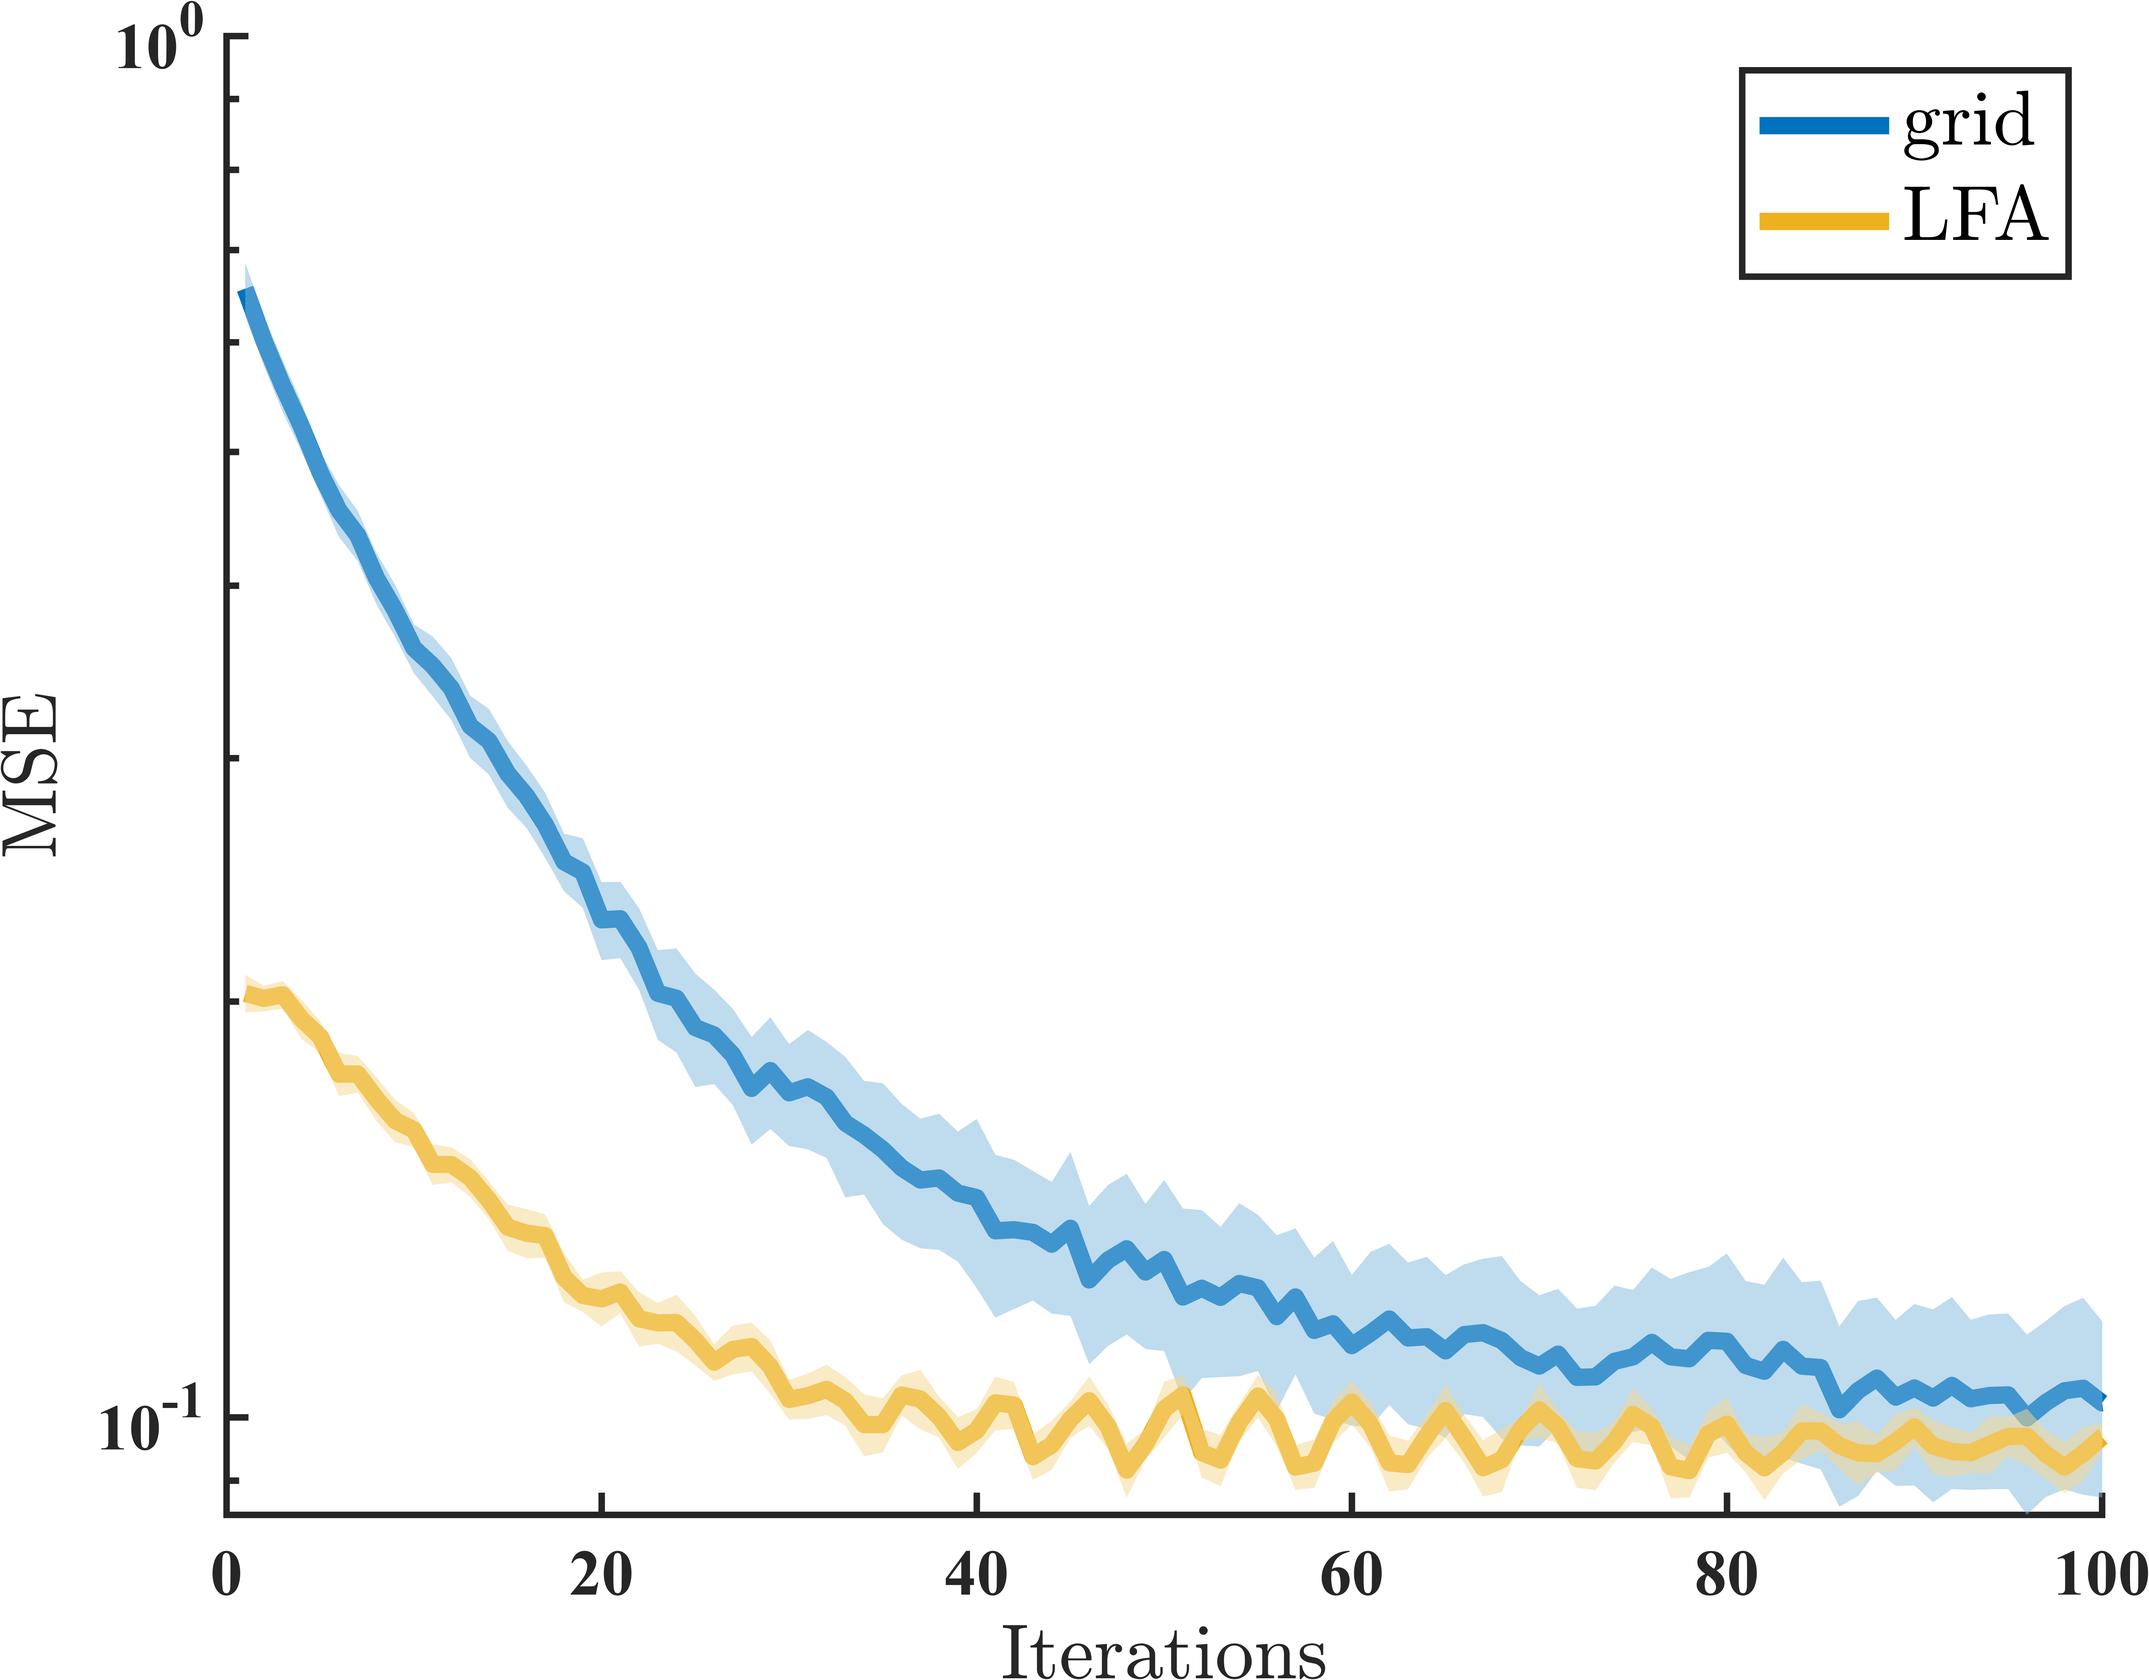
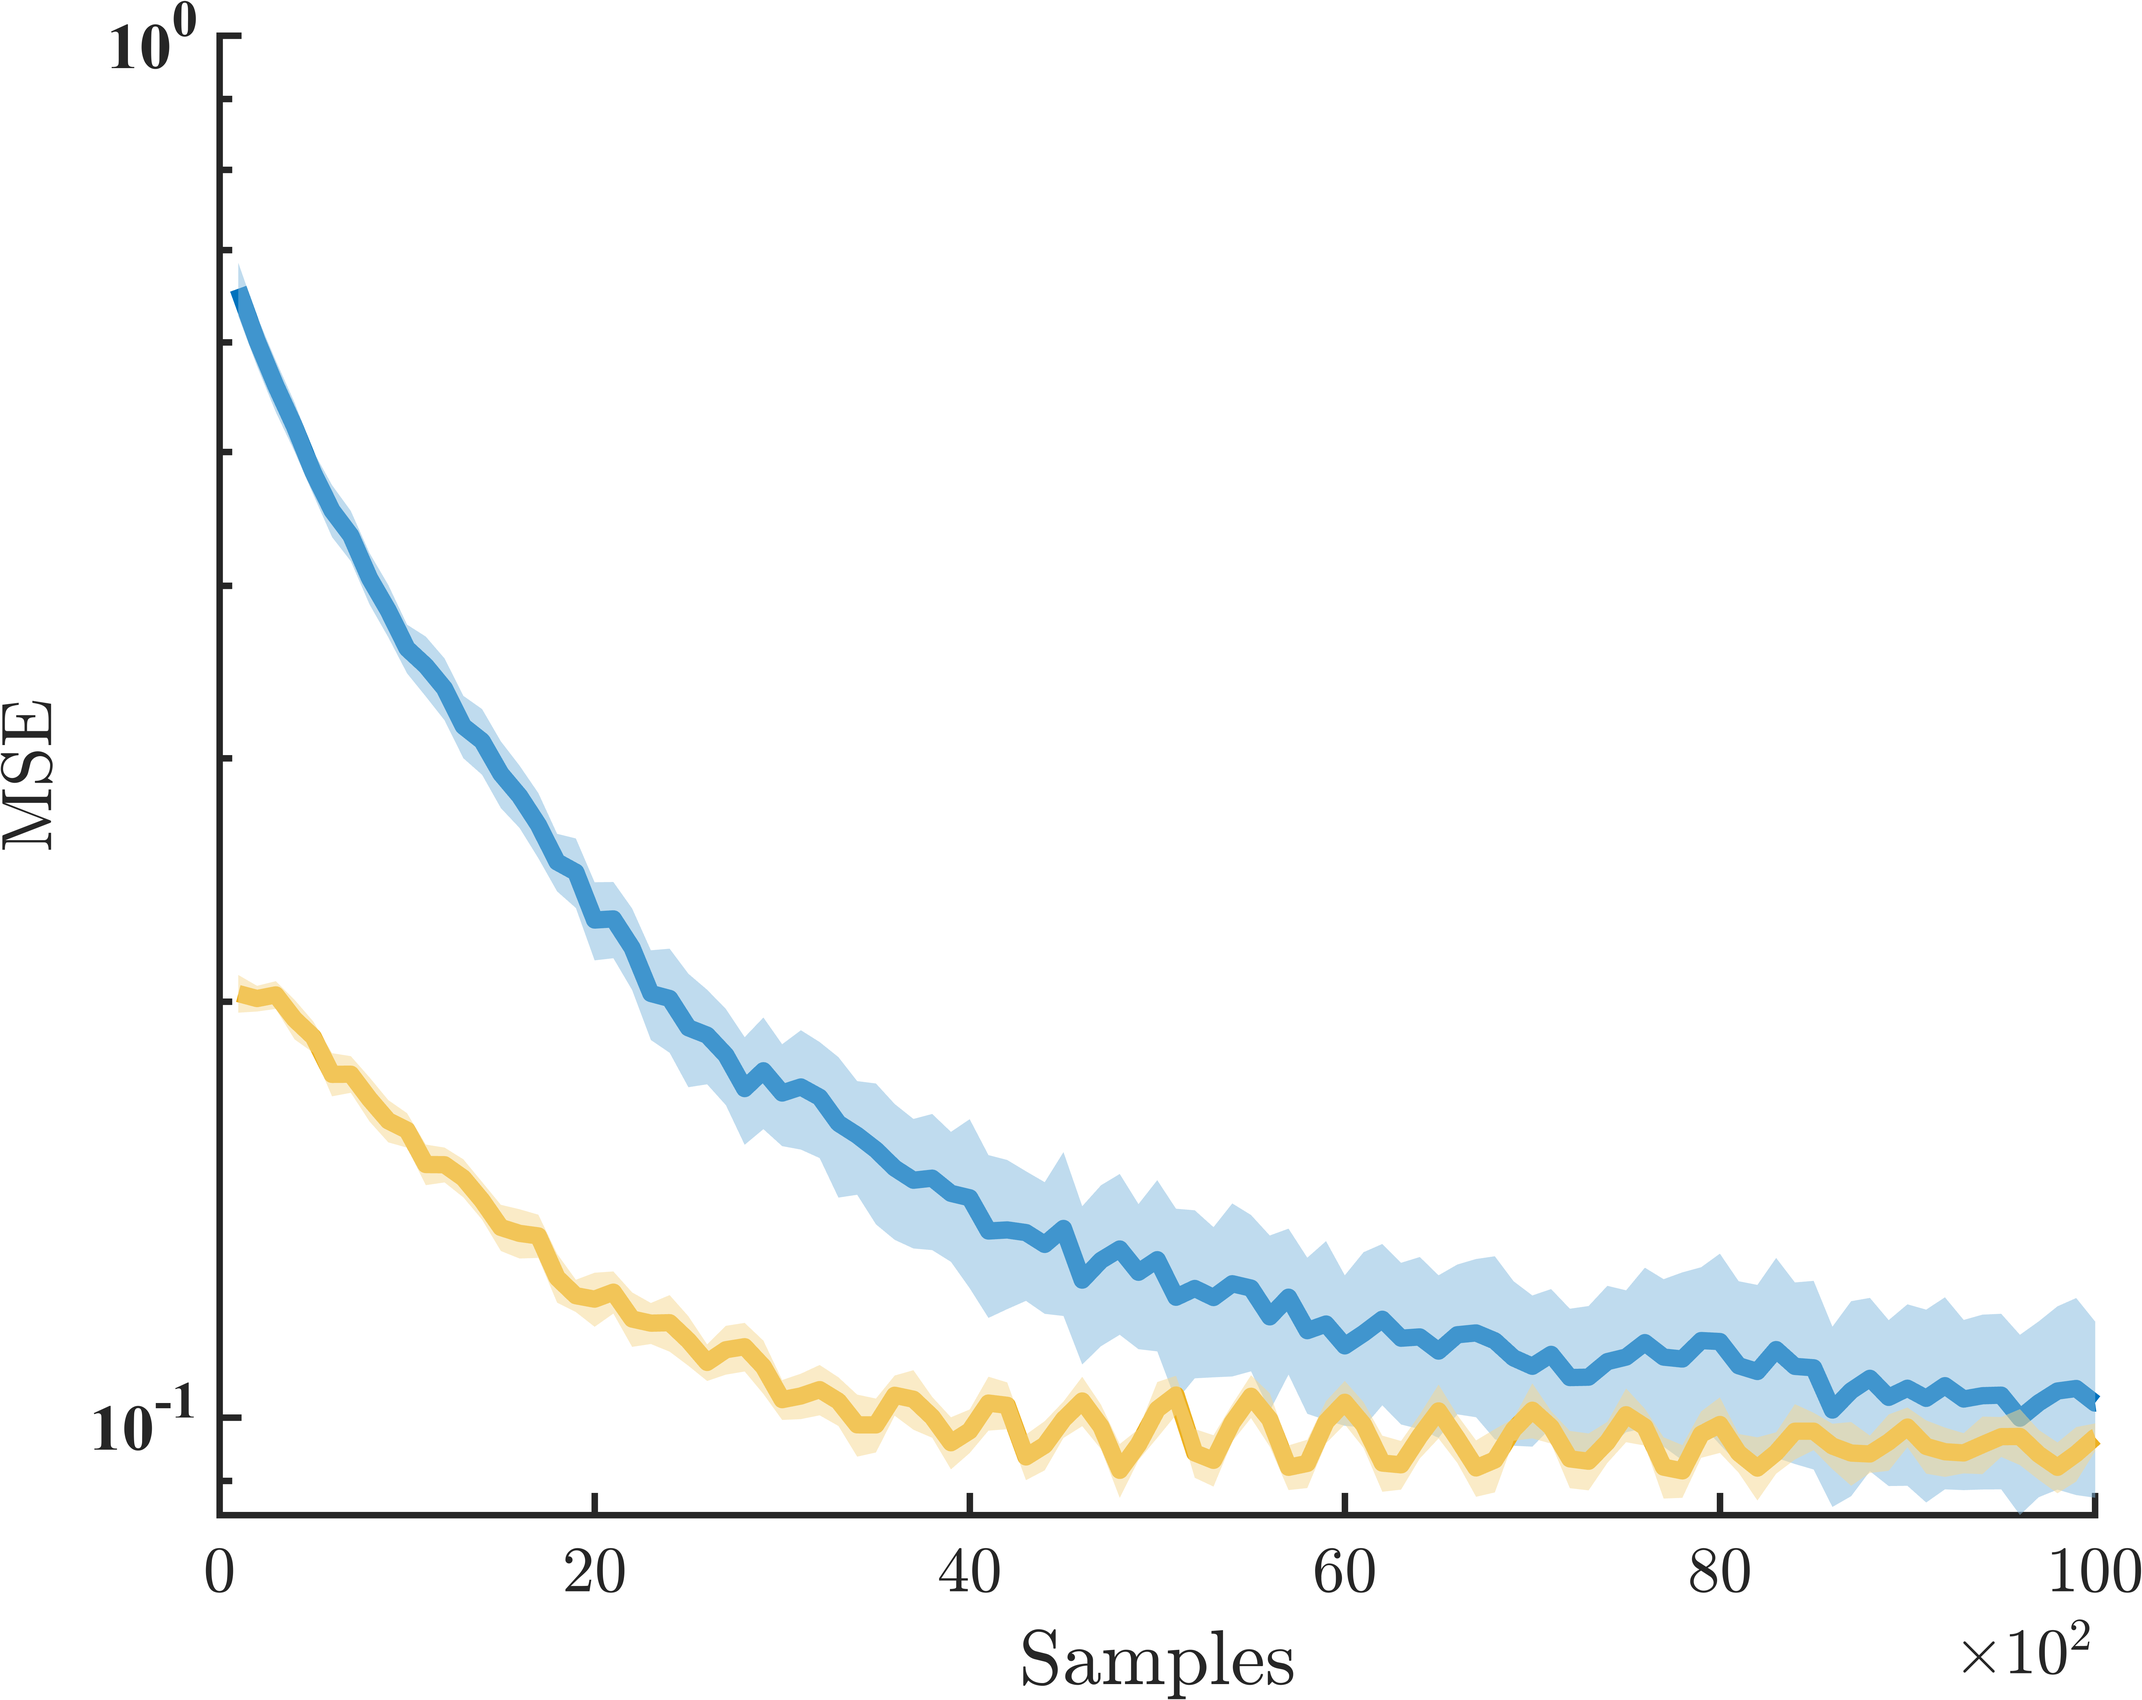
lfa export results

diff --git a/wrapper.m b/wrapper.m
@@ -1,5 +1,7 @@
 clc; clear all;
 dim_arr = [2,5,8,10,20,25,40,50];
+
+%% Run experiments
 err_cor_mean_arr = zeros(1, length(dim_arr));
 err_cor_std_arr = zeros(1, length(dim_arr));
 err_lfa_mean_arr = zeros(1, length(dim_arr));
@@ -16,3 +18,17 @@ end
 
 T = table(dim_arr', err_cor_mean_arr', err_cor_std_arr', err_lfa_mean_arr', err_lfa_std_arr', 'VariableNames', {'dim', 'err_cor_mean', 'err_cor_std', 'err_lfa_mean', 'err_lfa_std'});
 writetable(T, 'err.csv');
+
+%% Clean results
+for i = 1:length(dim_arr)
+	open(sprintf('fig/lfa/mse_%d.fig', dim_arr(i)));
+	if i ~= 1
+		legend off;
+	end
+	xlabel("Samples", 'fontsize', 18);
+	xsecondarylabel("$\times 10^2$");
+	axx = get(gca, 'XAxis');
+	axx.TickLabelInterpreter = 'latex';
+	exportgraphics(gca, sprintf('fig/lfa/mse_%d.png', dim_arr(i)), 'Resolution', 900);
+	close;
+end
